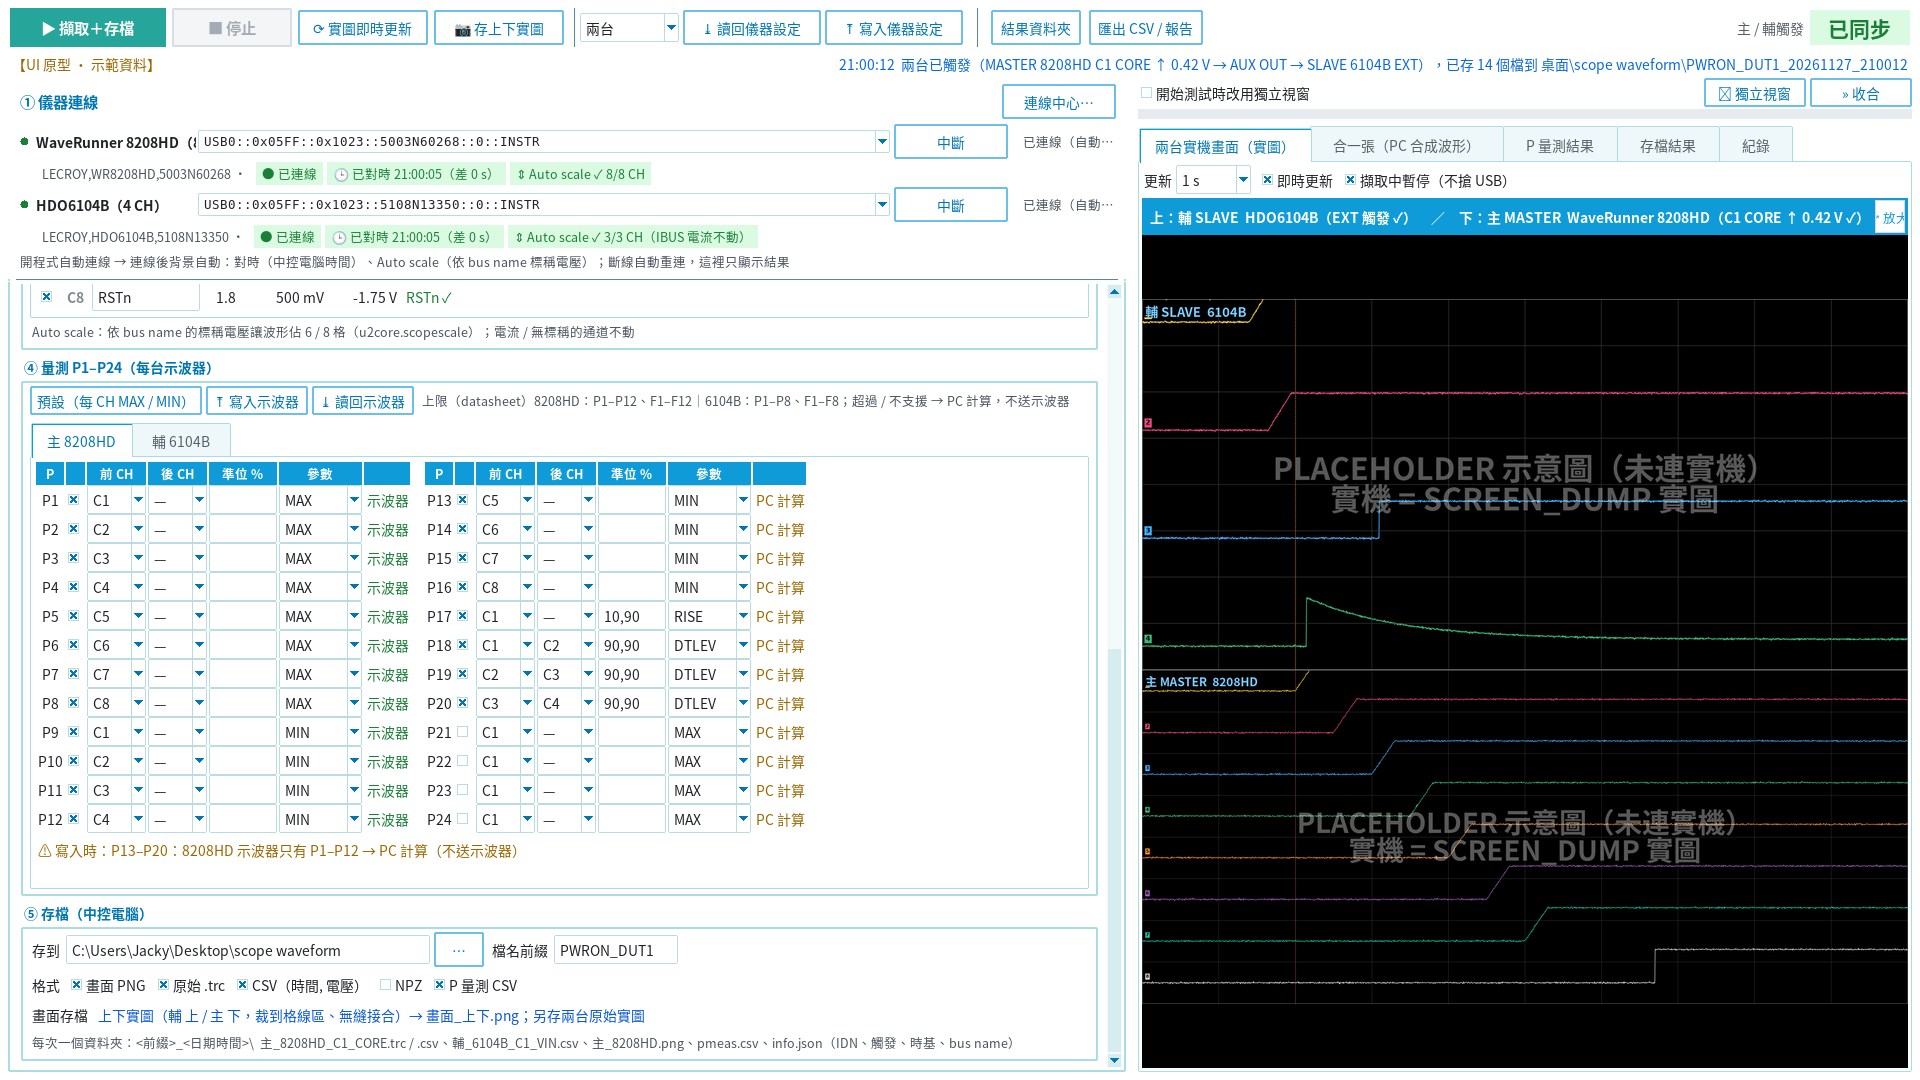
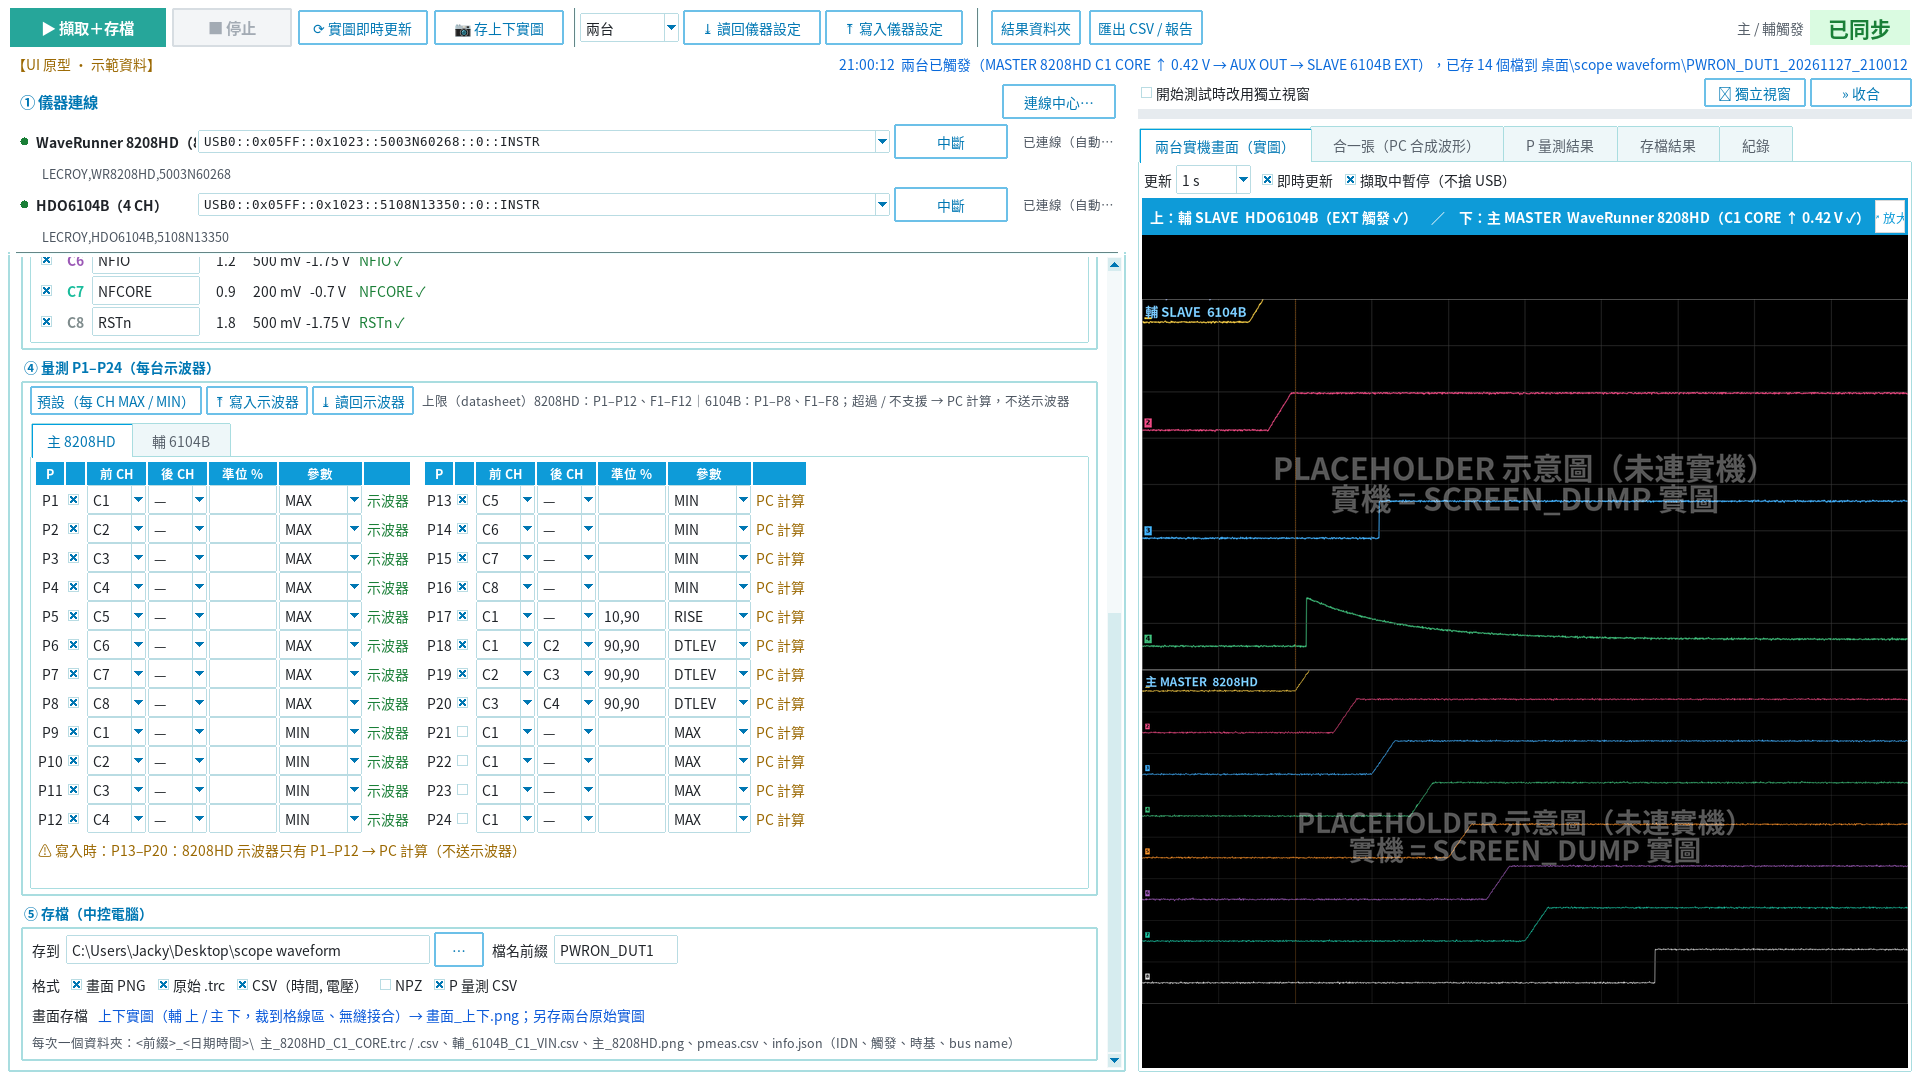
對時 / Auto scale 改背景做、只寫紀錄，失敗才顯示；① 只留連線狀態

Changed region(s): [[0.0, 0.1528, 0.4062, 0.3361], [0.5625, 0.5806, 0.5938, 0.6111], [0.5625, 0.2444, 0.5938, 0.275]]

diff --git a/scope_wave_saver/gui.py b/scope_wave_saver/gui.py
@@ -142,12 +142,12 @@ class WaveSaverUI(tk.Tk):
         page = body.page
         page.columnconfigure(0, weight=1)
         self._trigger(body.card("觸發設定（主要：MASTER 觸發通道 / 準位 / 斜率；SLAVE 跟 Aux Out）", 0, 0, num=2))
-        self._channels(body.card("通道 ＋ bus name ＋ Auto scale", 1, 0, num=3))
+        self._channels(body.card("通道 ＋ bus name", 1, 0, num=3))
         self._pm(body.card("量測 P1–P24（每台示波器）", 2, 0, num=4))
         self._save(body.card("存檔（中控電腦）", 3, 0, num=5))
         self._monitor(body.right_nb)
 
-    # ---- ① 儀器連線（自動連線＋Auto scale＋對時）
+    # ---- ① 儀器連線（自動連線；對時 / Auto scale 背景做，只寫紀錄，失敗才顯示）
     def _conn(self, body, InstRow):
         for role, m in (("MASTER 主", MASTER_DEF), ("SLAVE 輔", SLAVE_DEF)):
             st = tk.StringVar(self, value=f"已連線（自動）· {role}")
@@ -155,18 +155,41 @@ class WaveSaverUI(tk.Tk):
                         connect=lambda: None, connected=lambda: True, status_var=st, app_btn_text=True, btn_text="中斷")
             info = ttk.Frame(body.conn)
             info.pack(fill="x", padx=(22, 0))
-            ttk.Label(info, text=("LECROY,WR8208HD,5003N60268 · " if m == MASTER_DEF else "LECROY,HDO6104B,5108N13350 · ")
-                      , style="U.Muted.TLabel").pack(side="left")
-            for txt in ("● 已連線", "🕒 已對時 21:00:05（差 0 s）",
-                        "⇕ Auto scale ✓ " + ("8/8 CH" if m == MASTER_DEF else "3/3 CH（IBUS 電流不動）")):
-                tk.Label(info, text=txt, fg=PASS_C[0], bg=PASS_C[1], font=(self.fam, 9), padx=5).pack(side="left", padx=(4, 0))
+            ttk.Label(info, text=("LECROY,WR8208HD,5003N60268" if m == MASTER_DEF else "LECROY,HDO6104B,5108N13350"),
+                      style="U.Muted.TLabel").pack(side="left")
+            # 對時 / Auto scale 在背景做、只寫紀錄；失敗才在這裡顯示（平常隱藏）
+            self.bg_warn = getattr(self, "bg_warn", {})
+            self.bg_warn[m] = tk.Label(info, text="", fg=FAIL_C[0], bg=FAIL_C[1], font=(self.fam, 9), padx=5)
             try:
                 r.dot.set("ok")
             except Exception:  # noqa: BLE001
                 pass
-        ttk.Label(body.conn, text="開程式自動連線 → 連線後背景自動：對時（中控電腦時間）、Auto scale（依 bus name 標稱電壓）；"
-                                  "斷線自動重連，這裡只顯示結果",
-                  style="U.Muted.TLabel").pack(anchor="w", pady=(2, 2))
+
+    def bg_result(self, model, task, ok, msg=""):
+        """背景工作（對時 / Auto scale）結果：成功 → 只寫紀錄；失敗 → 紀錄 ＋ ① 該台下方紅字"""
+        self.log(f"[{model}] {task}：{'OK' if ok else '失敗'}{('　' + msg) if msg else ''}")
+        lb = self.bg_warn.get(model)
+        if lb is None:
+            return
+        if ok:
+            lb.pack_forget()
+        else:
+            lb.configure(text=f"⚠ {task}失敗：{msg}")
+            lb.pack(side="left", padx=(8, 0))
+
+    def log(self, text):
+        line = f"{_dt.datetime.now():%H:%M:%S}  {text}"
+        t = getattr(self, "log_txt", None)
+        if t is not None:
+            t.insert("end", line + "\n")
+            t.see("end")
+        try:
+            d = os.path.join(os.path.expanduser("~"), "Desktop", "scope waveform")
+            os.makedirs(d, exist_ok=True)
+            with open(os.path.join(d, "scope_wave_saver.log"), "a", encoding="utf-8") as f:
+                f.write(line + "\n")
+        except OSError:
+            pass
 
     # ---- ② 觸發（主要）
     def _trigger(self, f):
@@ -244,7 +267,7 @@ class WaveSaverUI(tk.Tk):
         for m, role in ((MASTER_DEF, "主"), (SLAVE_DEF, "輔")):
             t = ttk.Frame(nb, padding=4)
             nb.add(t, text=f"  {role} {m}  ")
-            heads = ("存", "CH", "bus name", "標稱 V", "V/div（Auto）", "Offset", "示波器上名稱")
+            heads = ("存", "CH", "bus name", "標稱 V", "V/div", "Offset", "示波器上名稱")
             for j, h in enumerate(heads):
                 tk.Label(t, text=h, bg="#0E9BD8", fg="white", font=(self.fam, 9, "bold"), padx=4).grid(
                     row=0, column=j, sticky="we", padx=1)
@@ -260,8 +283,6 @@ class WaveSaverUI(tk.Tk):
                 ttk.Label(t, text=f"{-3.5 * float(vdiv_for(vn).split()[0]) * (1e-3 if 'mV' in vdiv_for(vn) else 1):.3g} V"
                           if vn else "0 V").grid(row=rr, column=5)
                 ttk.Label(t, text=nm + " ✓", foreground=PASS_C[0]).grid(row=rr, column=6, sticky="w", padx=4)
-        ttk.Label(f, text="Auto scale：依 bus name 的標稱電壓讓波形佔 6 / 8 格（u2core.scopescale）；電流 / 無標稱的通道不動",
-                  style="U.Muted.TLabel").pack(anchor="w", pady=(2, 0))
 
     # ---- ④ P1–P24
     def _pm(self, f):
@@ -398,7 +419,15 @@ class WaveSaverUI(tk.Tk):
             tv.column(c, width=w, anchor="center")
         tv.pack(fill="both", expand=True)
         nb.add(ttk.Frame(nb, padding=4), text="  存檔結果  ")
-        nb.add(ttk.Frame(nb, padding=4), text="  紀錄  ")
+        lg = ttk.Frame(nb, padding=4)
+        nb.add(lg, text="  紀錄  ")
+        self.log_txt = tk.Text(lg, bg="#0d1117", fg="#c9d1d9", font=("DejaVu Sans Mono", 9), height=20)
+        self.log_txt.pack(fill="both", expand=True)
+        if self.demo:                                    # 示範：背景工作結果只進紀錄
+            for m in (MASTER_DEF, SLAVE_DEF):
+                self.after(200, lambda m=m: (self.bg_result(m, "對時（中控電腦時間）", True, "DATE 寫入、讀回差 0 s"),
+                                             self.bg_result(m, "Auto scale", True,
+                                                            "8/8 CH" if m == MASTER_DEF else "3/3 CH（IBUS 電流不動）")))
         self.mon_nb = nb
         self._layout_shots()
 

diff --git a/README_zh-TW.md b/README_zh-TW.md
@@ -28,10 +28,10 @@
 
 - **工具列**：▶ 擷取＋存檔、■ 停止、⟳ 實圖即時更新、📷 存兩台畫面、結果資料夾 / 匯出；右邊主 / 輔觸發狀態
 - **工具列 ⤓ 讀回儀器設定 / ⤒ 寫入儀器設定**（兩台 / 主 / 輔）：觸發（來源 / 準位 / 斜率 / 模式）、時基（T/div、Delay）、通道（開關、V/div、Offset、bus name）、P1–P24、Aux Out / EXT 同步（`settings.py`；寫入前先檢查，不支援的不送）
-- **① 儀器連線**：只顯示結果（已連線 / 已對時 / Auto scale ✓）。開程式自動連線，連線後背景自動對時（中控電腦時間）與 Auto scale，不需要勾選或按鈕
+- **① 儀器連線**：只顯示連線狀態。開程式自動連線；對時（中控電腦時間）與 Auto scale 在背景自動做，只寫紀錄（紀錄分頁 ＋ `桌面\scope waveform\scope_wave_saver.log`），**失敗才**在該台下方顯示紅字
 - **② 觸發設定（主要）**：MASTER 選 8208HD / 6104B；觸發通道（C1 CORE … C8 RSTn）、準位 V、斜率 ↑ Rising / ↓ Falling / ↕ Either、模式、T/div、Delay；
   SLAVE：Aux Out → EXT（EX10、0.5 V、↑）、10 MHz 同步（選用）、輔時基跟主一樣
-- **③ 通道 ＋ bus name ＋ Auto scale**：主 C1–C8 = CORE、DDRVPP、GPIO、DDRIO、PHYIO、NFIO、NFCORE、RSTn；輔 C1–C4 = VIN、VBUS、BUSPG、IBUS（電流 A）
+- **③ 通道 ＋ bus name**：主 C1–C8 = CORE、DDRVPP、GPIO、DDRIO、PHYIO、NFIO、NFCORE、RSTn；輔 C1–C4 = VIN、VBUS、BUSPG、IBUS（電流 A）
 - **④ 量測 P1–P24（每台）**：每列標「示波器」或「PC 計算」，寫入前列出會改 PC 計算的列
 
 ### P1–P24 兩台能吃進多少（已核對）
